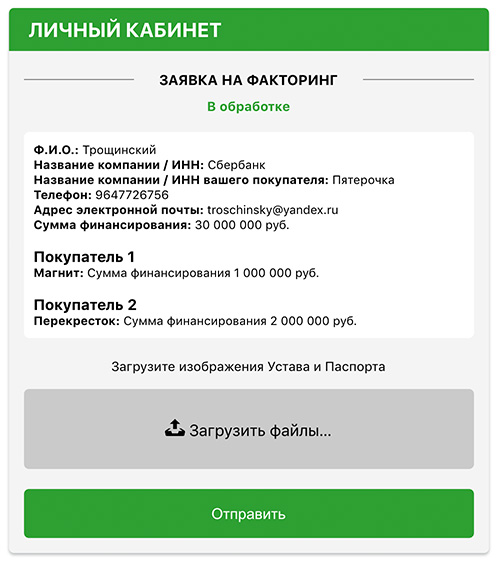
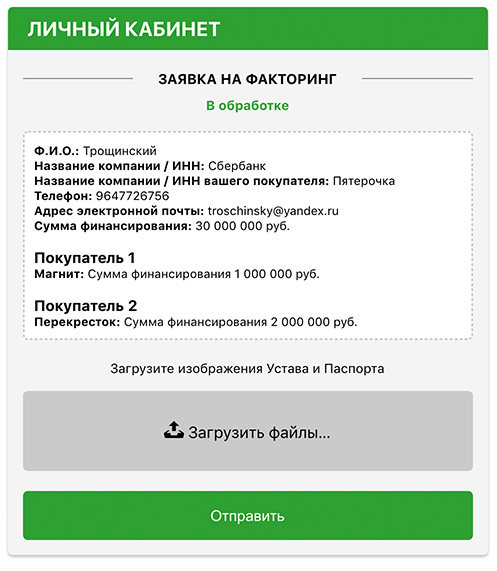
add

diff --git a/build/index.html b/build/index.html
@@ -1,1 +1,1 @@
-<!doctype html><html lang="en"><head><meta charset="utf-8"/><link rel="icon" href="/sbf-form-test/build/favicon.ico"/><meta name="viewport" content="width=device-width,initial-scale=1"/><meta name="theme-color" content="#000000"/><meta name="description" content="Web site created using create-react-app"/><link rel="apple-touch-icon" href="/sbf-form-test/build/logo192.png"/><link rel="manifest" href="/sbf-form-test/build/manifest.json"/><title>React App</title><link href="/sbf-form-test/build/static/css/main.aedfeaaa.chunk.css" rel="stylesheet"></head><body><noscript>You need to enable JavaScript to run this app.</noscript><div id="root"></div><script>!function(e){function t(t){for(var n,f,l=t[0],i=t[1],a=t[2],c=0,s=[];c<l.length;c++)f=l[c],Object.prototype.hasOwnProperty.call(o,f)&&o[f]&&s.push(o[f][0]),o[f]=0;for(n in i)Object.prototype.hasOwnProperty.call(i,n)&&(e[n]=i[n]);for(p&&p(t);s.length;)s.shift()();return u.push.apply(u,a||[]),r()}function r(){for(var e,t=0;t<u.length;t++){for(var r=u[t],n=!0,l=1;l<r.length;l++){var i=r[l];0!==o[i]&&(n=!1)}n&&(u.splice(t--,1),e=f(f.s=r[0]))}return e}var n={},o={1:0},u=[];function f(t){if(n[t])return n[t].exports;var r=n[t]={i:t,l:!1,exports:{}};return e[t].call(r.exports,r,r.exports,f),r.l=!0,r.exports}f.m=e,f.c=n,f.d=function(e,t,r){f.o(e,t)||Object.defineProperty(e,t,{enumerable:!0,get:r})},f.r=function(e){"undefined"!=typeof Symbol&&Symbol.toStringTag&&Object.defineProperty(e,Symbol.toStringTag,{value:"Module"}),Object.defineProperty(e,"__esModule",{value:!0})},f.t=function(e,t){if(1&t&&(e=f(e)),8&t)return e;if(4&t&&"object"==typeof e&&e&&e.__esModule)return e;var r=Object.create(null);if(f.r(r),Object.defineProperty(r,"default",{enumerable:!0,value:e}),2&t&&"string"!=typeof e)for(var n in e)f.d(r,n,function(t){return e[t]}.bind(null,n));return r},f.n=function(e){var t=e&&e.__esModule?function(){return e.default}:function(){return e};return f.d(t,"a",t),t},f.o=function(e,t){return Object.prototype.hasOwnProperty.call(e,t)},f.p="/sbf-form-test/build/";var l=this.webpackJsonpsbf_form_test=this.webpackJsonpsbf_form_test||[],i=l.push.bind(l);l.push=t,l=l.slice();for(var a=0;a<l.length;a++)t(l[a]);var p=i;r()}([])</script><script src="/sbf-form-test/build/static/js/2.b7bafeb5.chunk.js"></script><script src="/sbf-form-test/build/static/js/main.3e85c069.chunk.js"></script></body></html>
+<!doctype html><html lang="en"><head><meta charset="utf-8"/><link rel="icon" href="/sbf-form-test/build/favicon.ico"/><meta name="viewport" content="width=device-width,initial-scale=1"/><meta name="theme-color" content="#000000"/><meta name="description" content="Web site created using create-react-app"/><link rel="apple-touch-icon" href="/sbf-form-test/build/logo192.png"/><link rel="manifest" href="/sbf-form-test/build/manifest.json"/><title>React App</title><link href="/sbf-form-test/build/static/css/main.a530e499.chunk.css" rel="stylesheet"></head><body><noscript>You need to enable JavaScript to run this app.</noscript><div id="root"></div><script>!function(e){function t(t){for(var n,f,l=t[0],i=t[1],a=t[2],c=0,s=[];c<l.length;c++)f=l[c],Object.prototype.hasOwnProperty.call(o,f)&&o[f]&&s.push(o[f][0]),o[f]=0;for(n in i)Object.prototype.hasOwnProperty.call(i,n)&&(e[n]=i[n]);for(p&&p(t);s.length;)s.shift()();return u.push.apply(u,a||[]),r()}function r(){for(var e,t=0;t<u.length;t++){for(var r=u[t],n=!0,l=1;l<r.length;l++){var i=r[l];0!==o[i]&&(n=!1)}n&&(u.splice(t--,1),e=f(f.s=r[0]))}return e}var n={},o={1:0},u=[];function f(t){if(n[t])return n[t].exports;var r=n[t]={i:t,l:!1,exports:{}};return e[t].call(r.exports,r,r.exports,f),r.l=!0,r.exports}f.m=e,f.c=n,f.d=function(e,t,r){f.o(e,t)||Object.defineProperty(e,t,{enumerable:!0,get:r})},f.r=function(e){"undefined"!=typeof Symbol&&Symbol.toStringTag&&Object.defineProperty(e,Symbol.toStringTag,{value:"Module"}),Object.defineProperty(e,"__esModule",{value:!0})},f.t=function(e,t){if(1&t&&(e=f(e)),8&t)return e;if(4&t&&"object"==typeof e&&e&&e.__esModule)return e;var r=Object.create(null);if(f.r(r),Object.defineProperty(r,"default",{enumerable:!0,value:e}),2&t&&"string"!=typeof e)for(var n in e)f.d(r,n,function(t){return e[t]}.bind(null,n));return r},f.n=function(e){var t=e&&e.__esModule?function(){return e.default}:function(){return e};return f.d(t,"a",t),t},f.o=function(e,t){return Object.prototype.hasOwnProperty.call(e,t)},f.p="/sbf-form-test/build/";var l=this.webpackJsonpsbf_form_test=this.webpackJsonpsbf_form_test||[],i=l.push.bind(l);l.push=t,l=l.slice();for(var a=0;a<l.length;a++)t(l[a]);var p=i;r()}([])</script><script src="/sbf-form-test/build/static/js/2.b7bafeb5.chunk.js"></script><script src="/sbf-form-test/build/static/js/main.3e85c069.chunk.js"></script></body></html>

diff --git a/build/static/css/main.a530e499.chunk.css b/build/static/css/main.a530e499.chunk.css
@@ -1,0 +1,2 @@
+body{margin:0;font-family:-apple-system,BlinkMacSystemFont,"Segoe UI","Roboto","Oxygen","Ubuntu","Cantarell","Fira Sans","Droid Sans","Helvetica Neue",sans-serif;-webkit-font-smoothing:antialiased;-moz-osx-font-smoothing:grayscale}code{font-family:source-code-pro,Menlo,Monaco,Consolas,"Courier New",monospace}.App{width:100%;height:100%;top:0;left:0;padding-top:20px;padding-bottom:20px;display:flex;align-items:center;align-content:center;justify-content:center;overflow:auto}.main_main__20EEA{position:relative;background-color:#f4f4f4;border-radius:5px;border:0 solid #d3d2d2;box-shadow:0 2px 3px #bec0c1}.main_acountInfo__1HNQr{position:relative;background-color:#fff;border-radius:5px;padding:10px;border:1.5px dashed #cacaca}.main_animation__1HRav{transition:all .3s ease}.main_addButton__1liB4{background-color:#000;border:none;color:#fff;padding:8px 15px;border-radius:5px;text-decoration:none;font-size:15px;margin-top:20px;cursor:pointer;outline:none}.main_addButton__1liB4:hover{background-color:#696969}.main_formButton__pBF0p{background-color:#2da032;width:100%;border:none;color:#fff;padding:16px 32px;border-radius:5px;text-decoration:none;font-size:15px;cursor:pointer;outline:none}.main_formButton__pBF0p:hover{background-color:#fd9929}.main_inputStyle__36wJg{margin:10px auto;width:450px;border-radius:5px;border:1px solid #999;padding:10px}input::-webkit-input-placeholder{color:#000}.main_inputStyle__36wJg:hover{border:1px solid #000}.main_inputStyle__36wJg:focus{outline:none;border:1px solid #2da032}.main_inputCabinet__LgXj8{margin:5px auto;width:250px;text-align:center;border-radius:5px;border:1px solid #999;padding:10px}.main_inputCabinet__LgXj8:hover{border:1px solid #000}.main_inputCabinet__LgXj8:focus{outline:none;border:1px solid #2da032}.main_inputError__20Qum{margin:10px auto;width:450px;border-radius:5px;border:1px solid #fc0000;padding:10px}li{padding:0;display:block;list-style:none;margin:0}.main_agree__tlsoF{padding-top:25px;padding-bottom:10px;font-size:12px;text-align:center}.main_approved__21Cvd{padding-top:15px;padding-bottom:25px;font-size:16px;font-weight:700;color:#2da032;text-align:center}.main_headerText__3fjqd{font-size:25px}.main_line__2IfL1{font-size:14px;margin-top:20px;text-align:center;position:relative}.main_line__2IfL1 span{background-color:#f4f4f4;position:relative;z-index:1;padding:0 25px}.main_line__2IfL1:after{content:"";display:block;width:100%;height:1px;background-color:#858585;position:absolute;top:50%;margin-top:-1px;z-index:0}.main_headerText__3fjqd{padding:10px 10px 10px 20px;background-color:#2da032;border-top-left-radius:5px;border-top-right-radius:5px;color:#fff;font-size:20px}.main_warningText__13wPu{font-size:12px;color:red}.main_box__iU-YD{background-color:#cacaca;border-radius:5px;text-align:center;padding-top:30px;margin-bottom:20px;width:450px;height:50px}.main_inputfile__VbAiG{width:.1px;height:.1px;opacity:0;overflow:hidden;position:absolute;z-index:-1}
+/*# sourceMappingURL=main.a530e499.chunk.css.map */

diff --git a/build/precache-manifest.003625f6d2a90fba445f7d80c9ce6091.js b/build/precache-manifest.003625f6d2a90fba445f7d80c9ce6091.js
@@ -1,11 +1,11 @@
 self.__precacheManifest = (self.__precacheManifest || []).concat([
   {
-    "revision": "5c358ceadbe76356e02eb4fccae59397",
+    "revision": "e8f225755b789586050b427e761d225d",
     "url": "/sbf-form-test/build/index.html"
   },
   {
-    "revision": "3c42c2b9e606532df0e0",
-    "url": "/sbf-form-test/build/static/css/main.aedfeaaa.chunk.css"
+    "revision": "f7df12080231d31eeb42",
+    "url": "/sbf-form-test/build/static/css/main.a530e499.chunk.css"
   },
   {
     "revision": "1a27dc37e86ef82df77a",
@@ -16,7 +16,7 @@ self.__precacheManifest = (self.__precacheManifest || []).concat([
     "url": "/sbf-form-test/build/static/js/2.b7bafeb5.chunk.js.LICENSE.txt"
   },
   {
-    "revision": "3c42c2b9e606532df0e0",
+    "revision": "f7df12080231d31eeb42",
     "url": "/sbf-form-test/build/static/js/main.3e85c069.chunk.js"
   },
   {

diff --git a/build/service-worker.js b/build/service-worker.js
@@ -14,7 +14,7 @@
 importScripts("https://storage.googleapis.com/workbox-cdn/releases/4.3.1/workbox-sw.js");
 
 importScripts(
-  "/sbf-form-test/build/precache-manifest.92d33a4f4bf29ba36a0aa5906536a7bd.js"
+  "/sbf-form-test/build/precache-manifest.003625f6d2a90fba445f7d80c9ce6091.js"
 );
 
 self.addEventListener('message', (event) => {

diff --git a/src/css/main.module.css b/src/css/main.module.css
@@ -11,7 +11,7 @@
     background-color: #ffffff;
     border-radius: 5px;
     padding: 10px;
-    border: 0px solid #d3d2d2;
+    border: 1.5px dashed #cacaca;
 }
 
 .animation {
